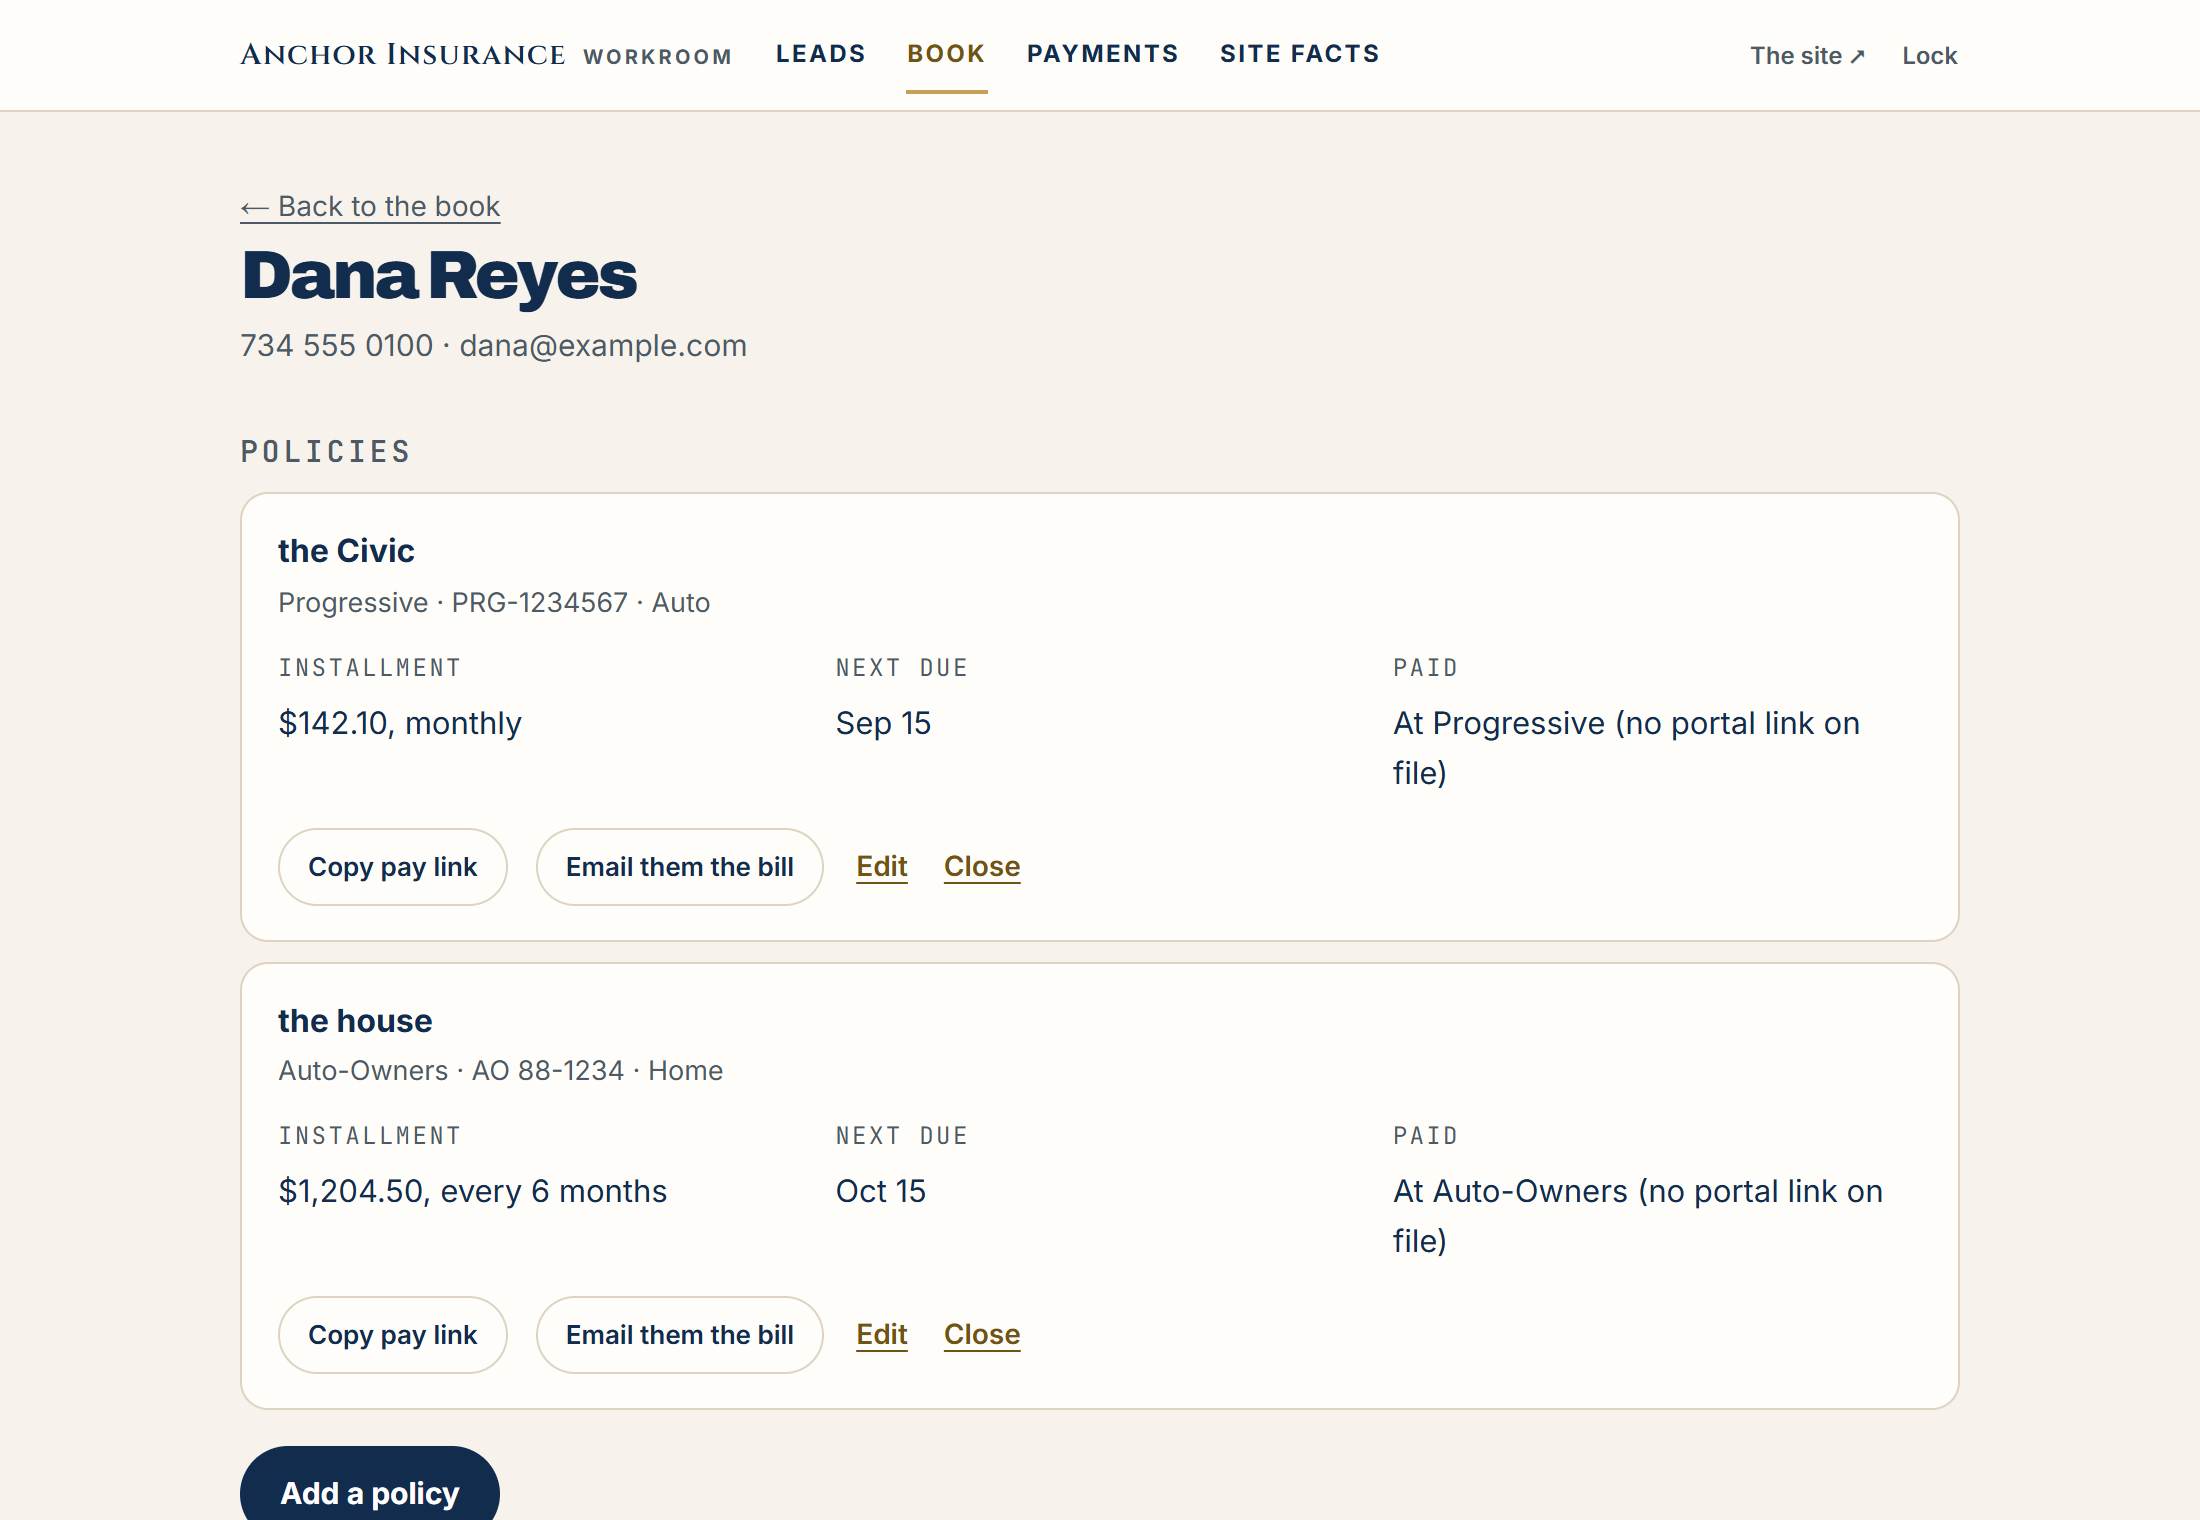
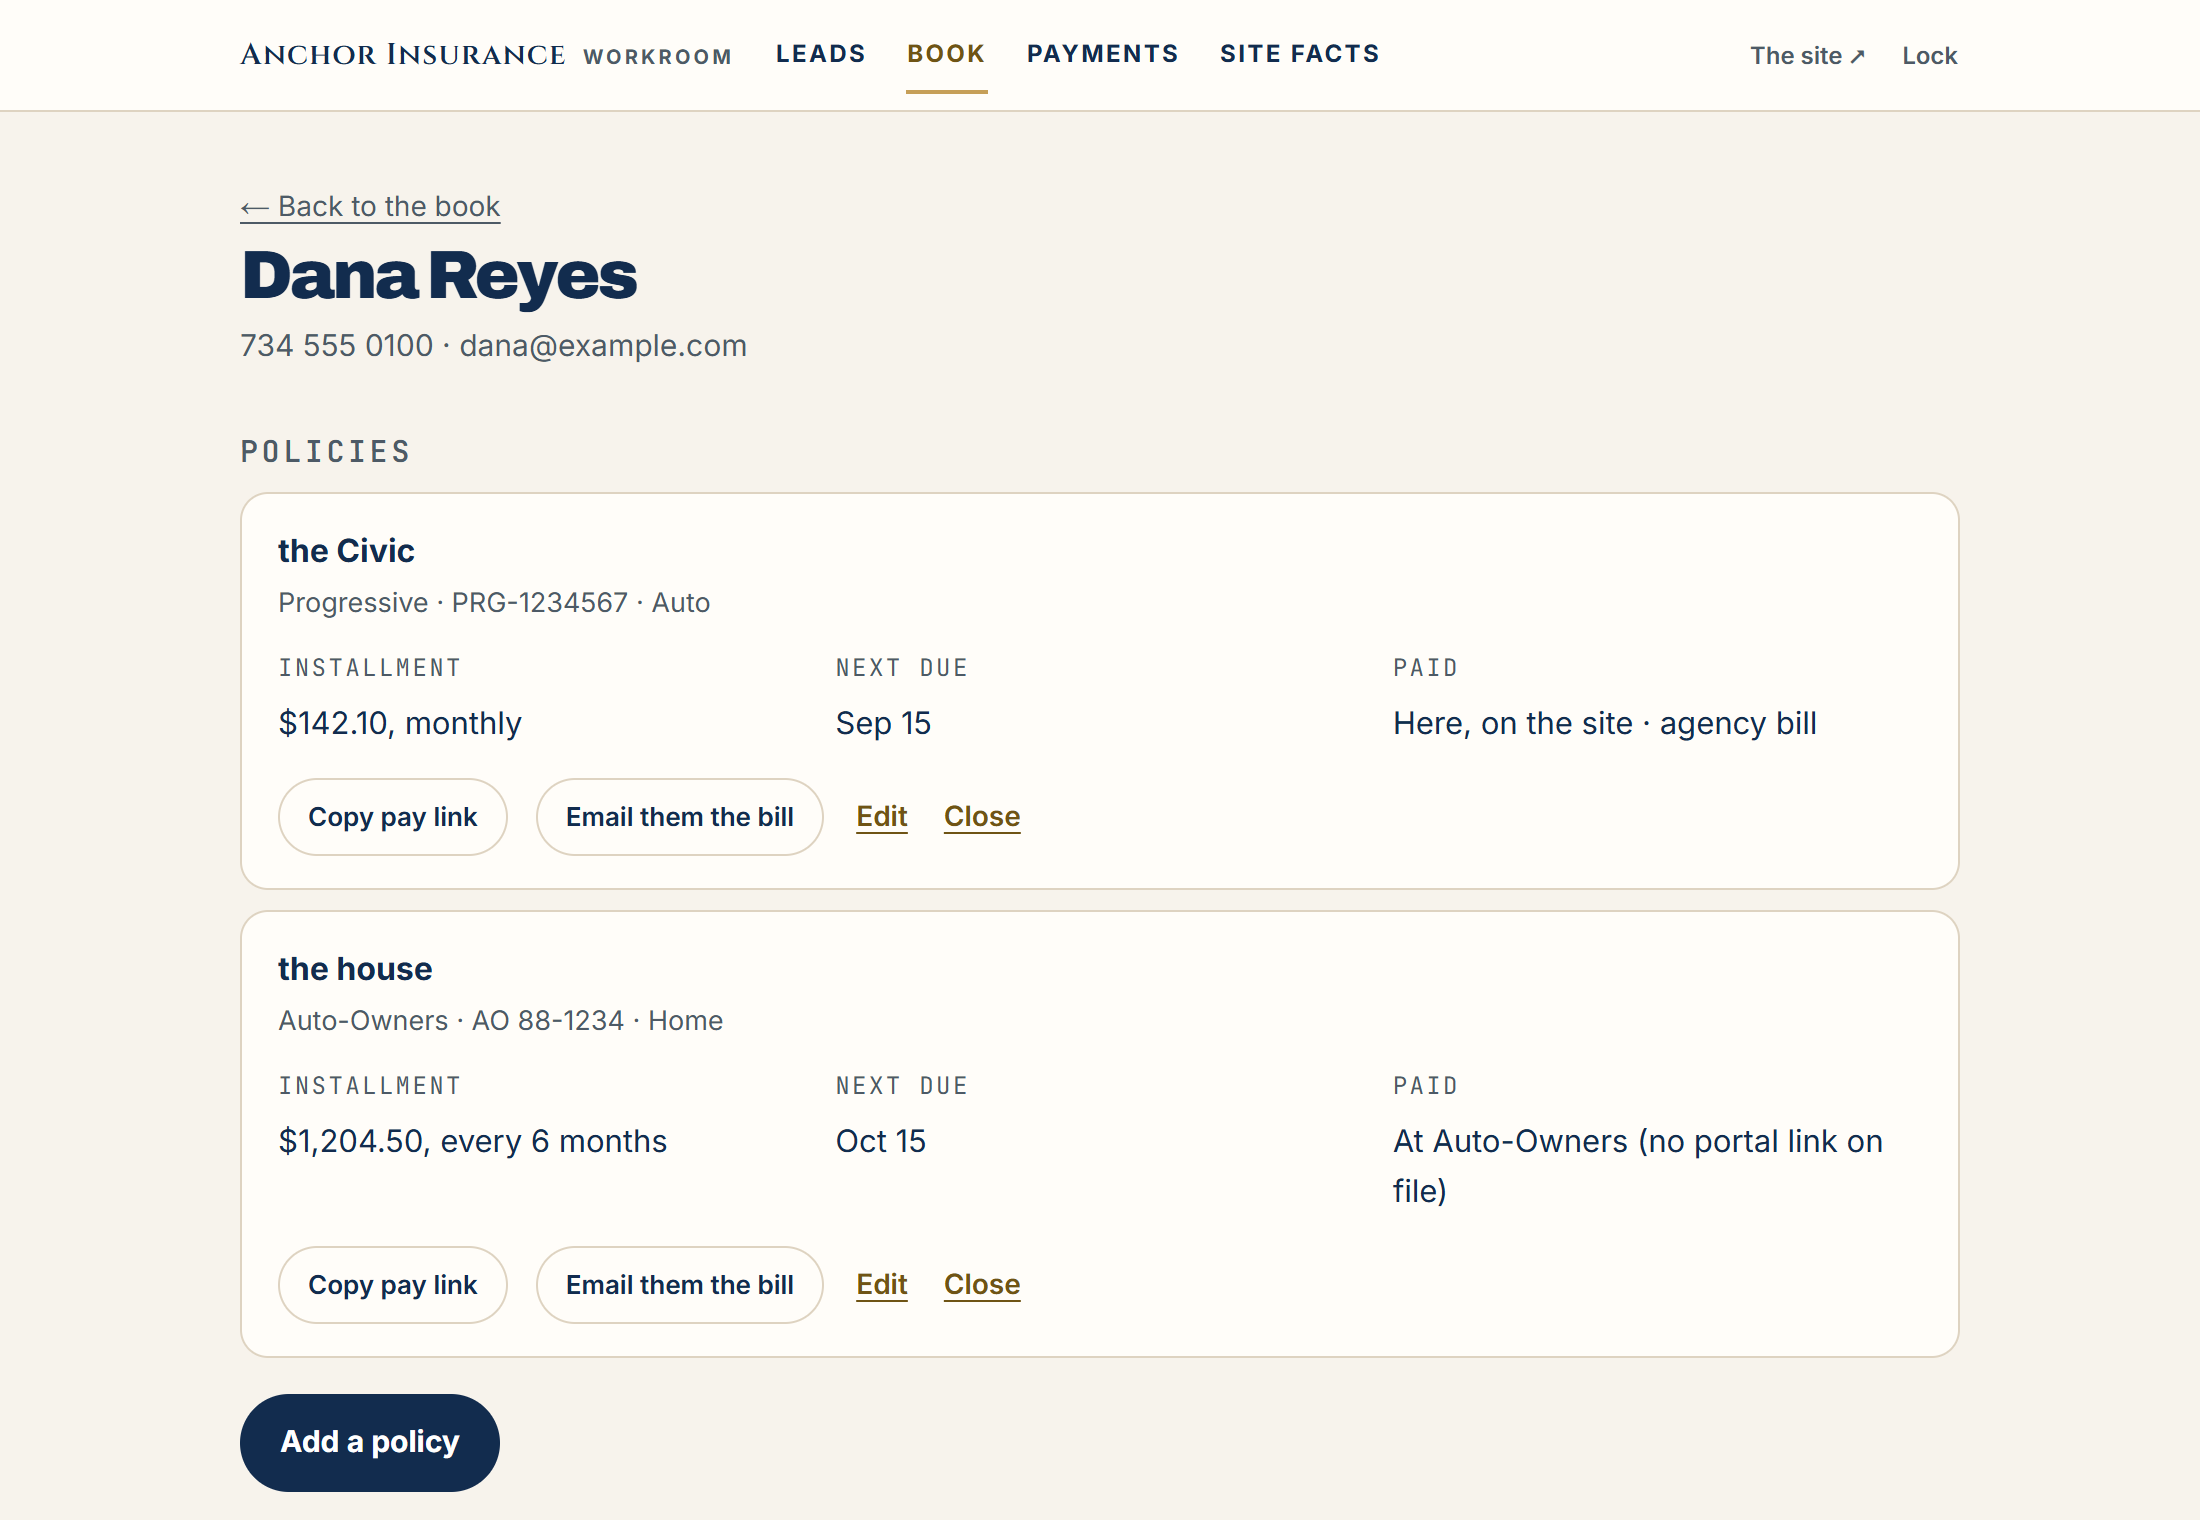
Agreement incorporates v1.1; the bill screenshot shows a payment made right here

diff --git a/app/(site)/agreement/page.tsx b/app/(site)/agreement/page.tsx
@@ -8,9 +8,9 @@ import "./agreement.css";
  * Ported from devine's /agreement.
  *
  * SHAPE: the general terms are NOT restated here. They are the published
- * Glazed Web Client Agreement v1.0, linked and incorporated by reference,
+ * glazedweb Client Agreement v1.1, linked and incorporated by reference,
  * exactly the way the glazedweb menu-order clickwrap works. What this page
- * adds is the part v1.0 leaves blank: Exhibit A with Anchor's scope and
+ * adds is the part the master leaves blank: Exhibit A with Anchor's scope and
  * numbers, the online payment terms, and the acceptance itself.
  *
  * Numbers come from lib/agreement.ts, never typed here. The proposal at
@@ -37,7 +37,7 @@ export default function AgreementPage() {
         Two documents make the whole deal, and both are on this page or one tap from it. The first
         is the{" "}
         <a href={agreement.termsUrl} target="_blank" rel="noopener noreferrer">
-          Glazed Web Client Agreement v1.0
+          glazedweb Client Agreement v1.1
         </a>
         , the same published terms every glazedweb client gets: you own the site outright when the
         build fee is paid, month to month after launch, thirty days&rsquo; notice, no penalty,
@@ -75,8 +75,8 @@ export default function AgreementPage() {
           <figcaption>The workroom: your book of customers and policies, with a pay link and an email-the-bill button on each.</figcaption>
         </figure>
         <figure>
-          <img src="/agreement/bill-phone.png" width="390" height="760" alt="A customer's bill on a phone: Hi Dana, your $142.10 payment for the Civic is due, the policy details, and how to pay it." loading="lazy" />
-          <figcaption>What your customer sees from the link: their bill, prefilled, under your name. No account, no password.</figcaption>
+          <img src="/agreement/bill-phone.png" width="390" height="1240" alt="A customer's bill on a phone: Hi Dana, your $142.10 payment for the Civic is due, the policy details, the choice to pay it once or turn on autopay, and the add-ons worth asking about." loading="lazy" />
+          <figcaption>What your customer sees from the link: their bill, prefilled, paid right here under your name. No account, no password.</figcaption>
         </figure>
         <figure>
           <img src="/agreement/workroom-facts.png" width="1100" height="760" alt="The workroom's site facts screen: boxes for phone, email, address, hours and license numbers, each marked when it is still blank on the site." loading="lazy" />

diff --git a/lib/agreement.ts b/lib/agreement.ts
@@ -4,7 +4,7 @@
  * glaze.md: every business fact lives in one constant file so a correction
  * is one edit. These are the numbers from the proposal ($3,500 build, half
  * and half, $150 a month) and the Exhibit A terms, including the online
- * payment service that the v1.0 master has no clause for. The acceptance
+ * payment service that the master has no clause for. The acceptance
  * page renders from here, the acceptance email quotes from here, and the
  * paper draft in the private contracts folder is generated from the same
  * facts by hand-copy (named below).
@@ -17,7 +17,7 @@
  * same commit.
  *
  * The general terms are NOT restated here or on the acceptance page. They
- * are the Glazed Web Client Agreement v1.0, published at
+ * are the glazedweb Client Agreement v1.1, published at
  * glazedweb.com/agreement, incorporated by reference the same way the
  * menu-order clickwrap does. One text, one home, no drift.
  *
@@ -25,12 +25,11 @@
  */
 
 export const agreement = {
-  /** The legal entity. The published v1.0 master still names Kevin dba
-   *  Glazed Web as the party; see the README. */
+  /** The legal entity, the Provider named in v1.1 of the master. */
   provider: "glazedweb LLC",
-  version: "Glazed Web Client Agreement v1.0",
+  version: "glazedweb Client Agreement v1.1",
   termsUrl: "https://glazedweb.com/agreement",
-  pdfUrl: "https://glazedweb.com/glazed-web-agreement-v1.pdf",
+  pdfUrl: "https://glazedweb.com/glazed-web-agreement-v1-1.pdf",
   exhibit: "Exhibit A: Anchor Insurance, prepared 2026-09-02",
 
   client: "Anchor Insurance",

diff --git a/components/AgreementAccept.tsx b/components/AgreementAccept.tsx
@@ -104,7 +104,7 @@ export default function AgreementAccept({ business }: { business: string }) {
       <label className="agr-check">
         <input type="checkbox" checked={agreed} onChange={(e) => setAgreed(e.target.checked)} required />
         <span>
-          I have read the Glazed Web Client Agreement v1.0 and the Exhibit A above, including the
+          I have read the glazedweb Client Agreement v1.1 and the Exhibit A above, including the
           online payment terms, and I accept both on behalf of the business named here.
         </span>
       </label>

diff --git a/README.md b/README.md
@@ -327,9 +327,10 @@ inside her site.
 
 **Devine's custom-order clickwrap, ported.** The proposal's closing step
 links to `/agreement`, which is the deal in plain English: the published
-Glazed Web Client Agreement v1.0 linked and incorporated by reference (never
-restated, so it cannot drift from glazedweb.com/agreement), and the Exhibit A
-that v1.0 leaves blank, rendered from `lib/agreement.ts`: part 1 the scope,
+glazedweb Client Agreement v1.1 linked and incorporated by reference (never
+restated, so it cannot drift from glazedweb.com/agreement; v1.1 names
+glazedweb LLC as the Provider), and the Exhibit A that the master leaves
+blank, rendered from `lib/agreement.ts`: part 1 the scope,
 part 2 the pricing ($3,500, $1,750 deposit, $150 a month, the edit allowance
 and hourly rate), part 3 the online payment service, which is the part the
 master has no clause for and the part to show an attorney. She types her
